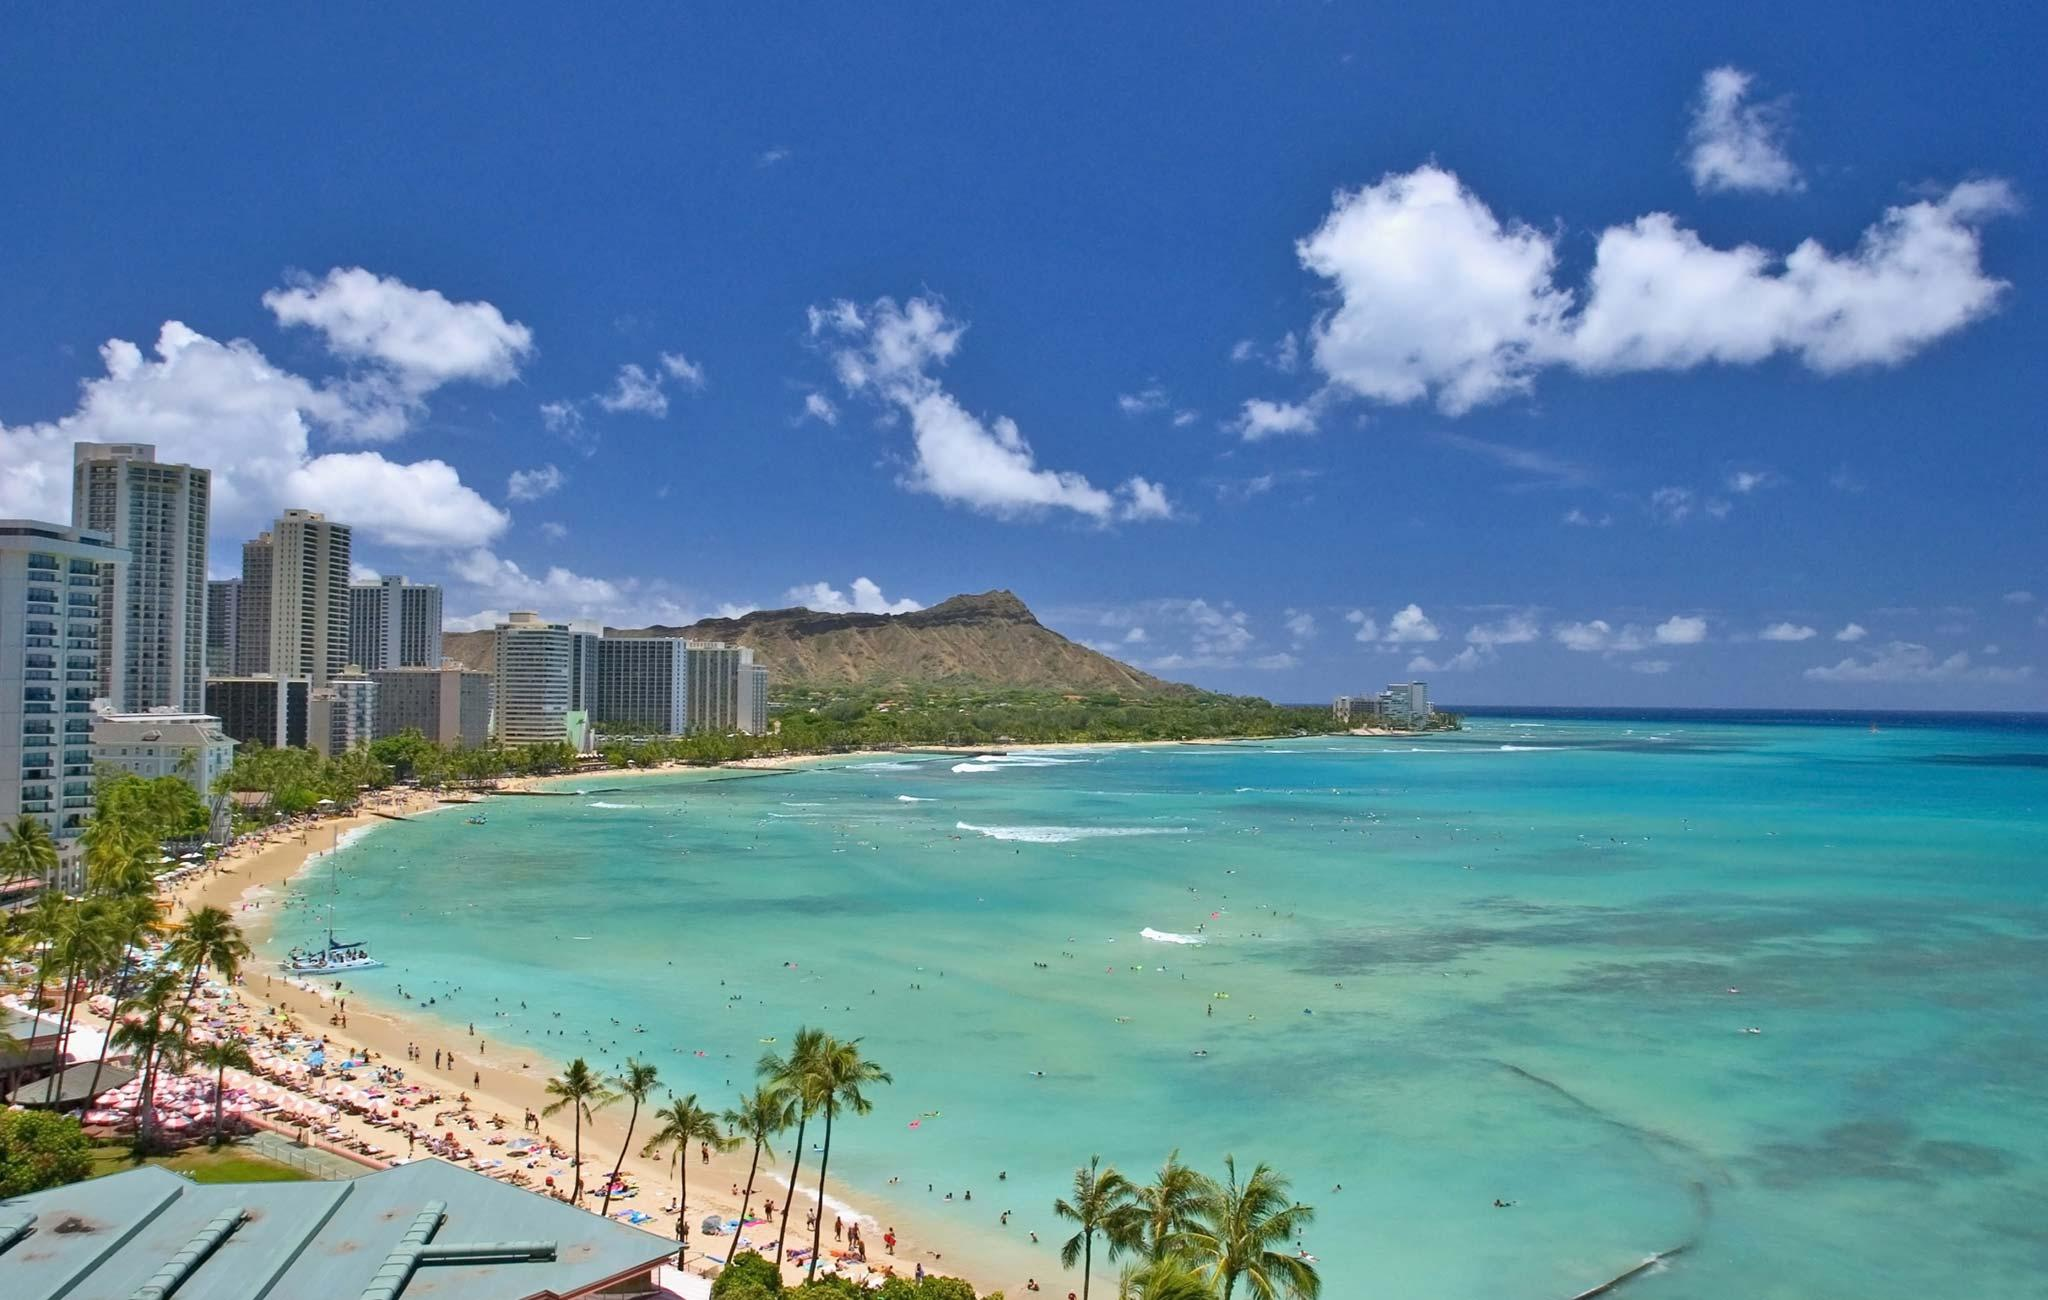
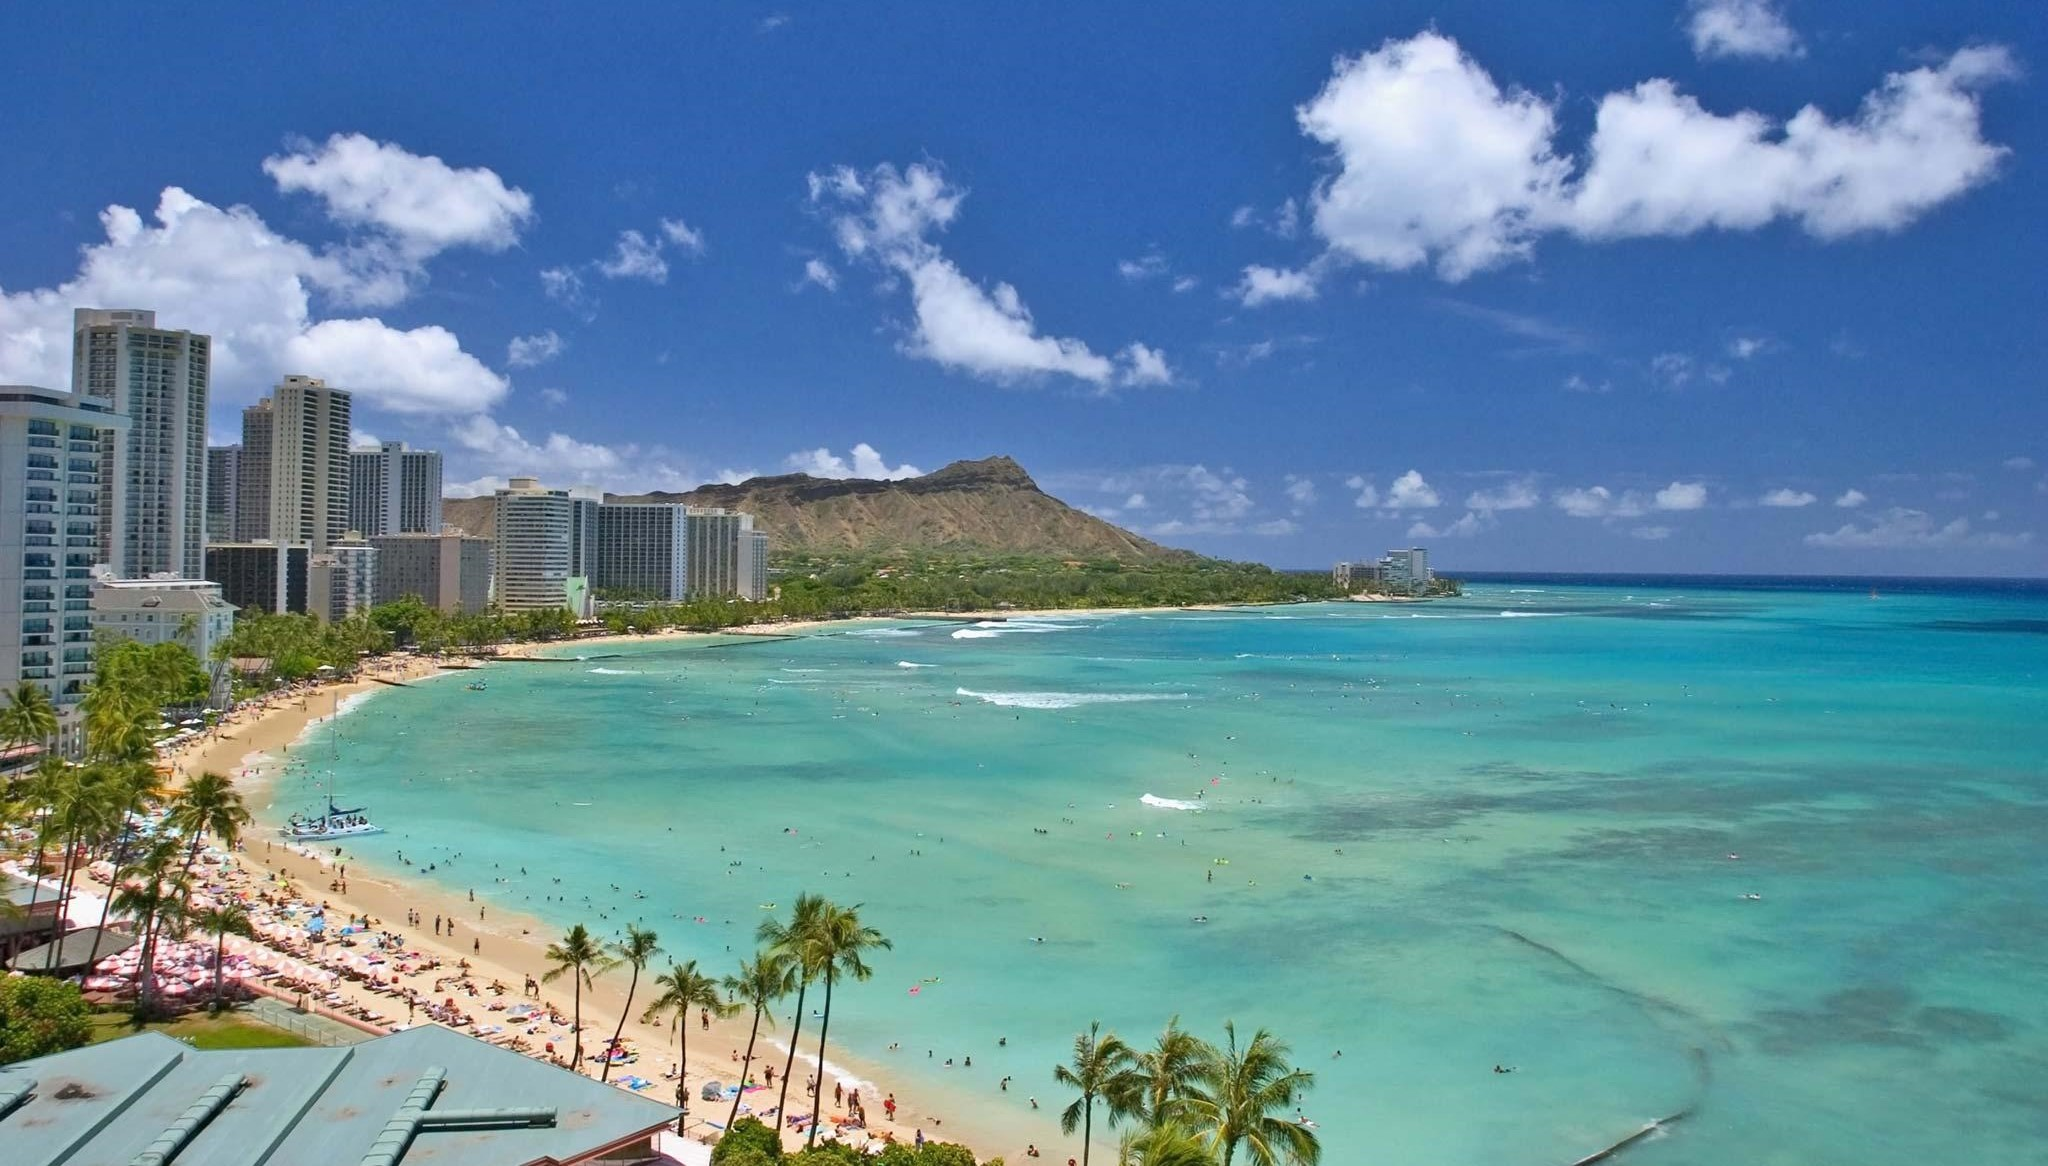
subo la gitpage

diff --git a/index.html b/index.html
@@ -39,8 +39,8 @@
                 <li class="nav-item">
                     <a class="nav-link" href="#">Coviertete en Orador</a>
                 </li>
-                <li class="nav-item verde">
-                    <a class="nav-link" href="#">Comprar Tickets</a>
+                <li class="nav-item">
+                    <a class="nav-link text-success" href="#">Comprar Tickets</a>
                 </li>
             </ul>
         </div>
@@ -57,7 +57,7 @@
                     <div class="carousel-inner col">
                         <div class="carousel-item active">
                             <img src="./imagenes_integrador_front/hawaii.jpg" class="d-block w-100" alt="...">
-                            <div class="carousel-caption d-none d-md-block" style="text-align: right;">
+                            <div class="carousel-caption d-none d-md-block float-right" >
                                 <h2 style="text-align: right; font-weight: bold;">
                                     Conf Bs As
                                 </h2>
@@ -206,8 +206,8 @@
             </div>
         </div>
         <div class="row">
-            <div class="col-6 custom-margin">
-                <img src="./imagenes_integrador_front/honolulu.jpg" class="img-fluid no-margin" alt="">
+            <div class="col-6">
+                <img src="./imagenes_integrador_front/honolulu.jpg" class="img-fluid w-100" alt="">
             </div>
             <div class="col-6 bg-secondary text-white custom-margin">
                 <br>

diff --git a/css/estilos.css b/css/estilos.css
@@ -58,9 +58,9 @@
     color: green !important;
   } */
 
-  .verde .nav-link {
-    color: green !important;
-}
+  /* .verde .nav-link { */
+    /* color: green !important; */
+/* } */
 
 .btn-transparent-white {
     background-color: transparent;
